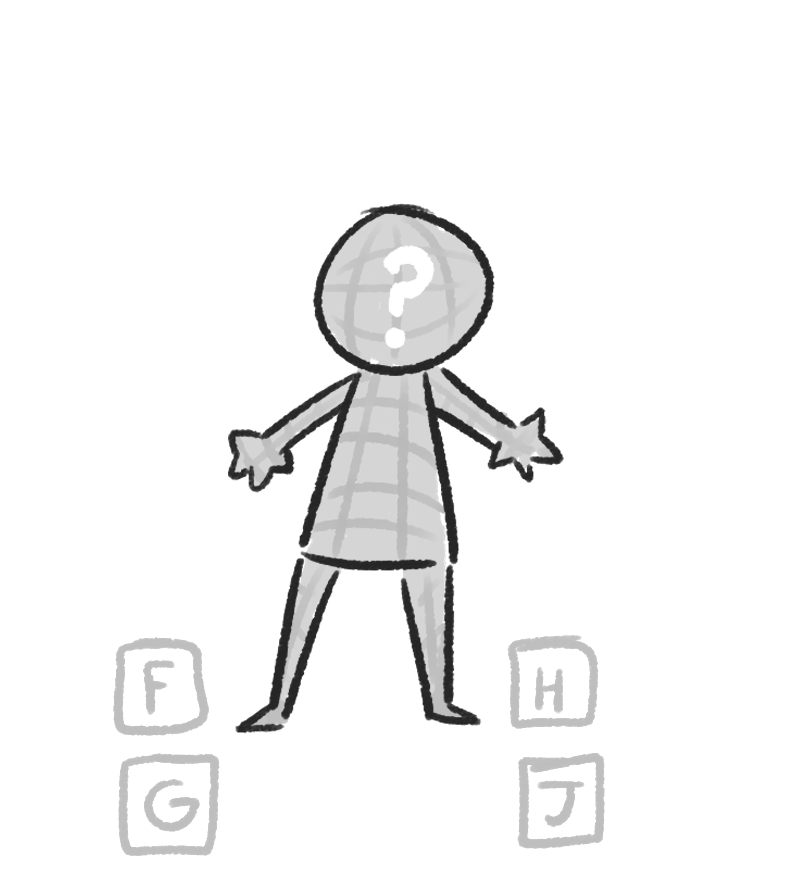
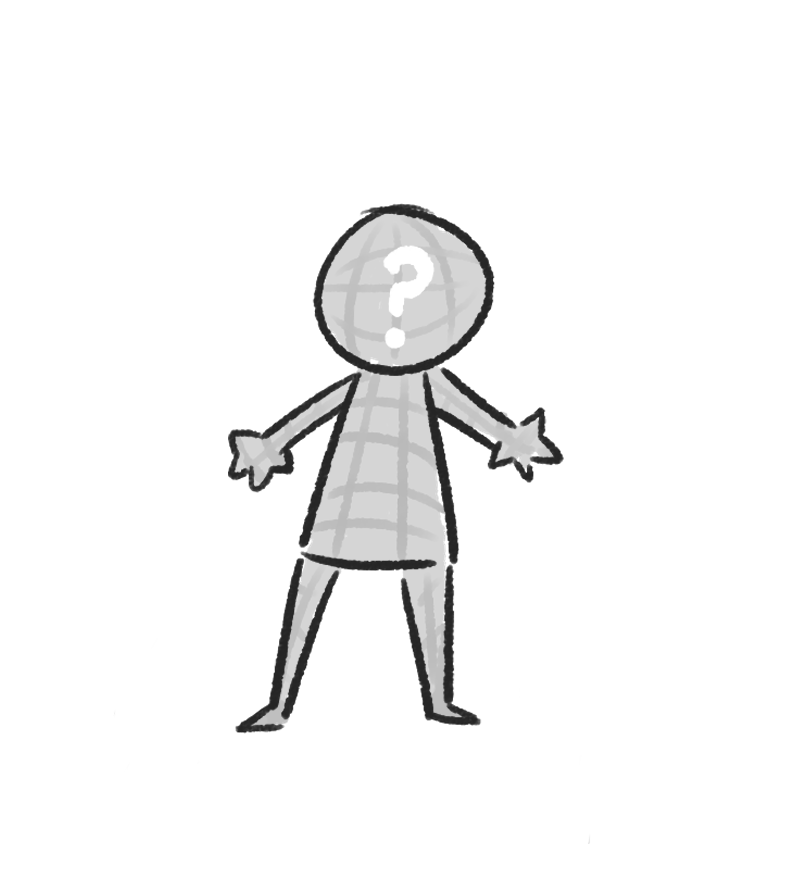
changed img em css

Changed region(s): [[0.1211, 0.7009, 0.3026, 0.9752], [0.6356, 0.8533, 0.7869, 0.9752], [0.6356, 0.7009, 0.7566, 0.8228]]

diff --git a/piano/script.js b/piano/script.js
@@ -58,10 +58,6 @@ async function presionar_tecla() { // must be async or it wont work (too much la
     tecla_esq = event.keyCode;
     
     switch (String.fromCharCode(tecla_esq)) {
-    case "Q":
-        playSound(robloxMP3);
-        replaceImage("media/a.png", "whoTalks");
-        break;
     case "F":
         playSound(noteDo);
         replaceImage("media/wolf.png", "whoTalks");

diff --git a/piano/style.css b/piano/style.css
@@ -2,13 +2,13 @@ body {
     background-color:#252525;
 }
 img {
-    width: 31em;
+    width: 15em;
     margin-left: auto;
     margin-right: auto;
     display: block;
 }
 #logo {
-    width: 34em;
+    width: 32em;
     height: 16%;
 }
 .containerDiv { 
